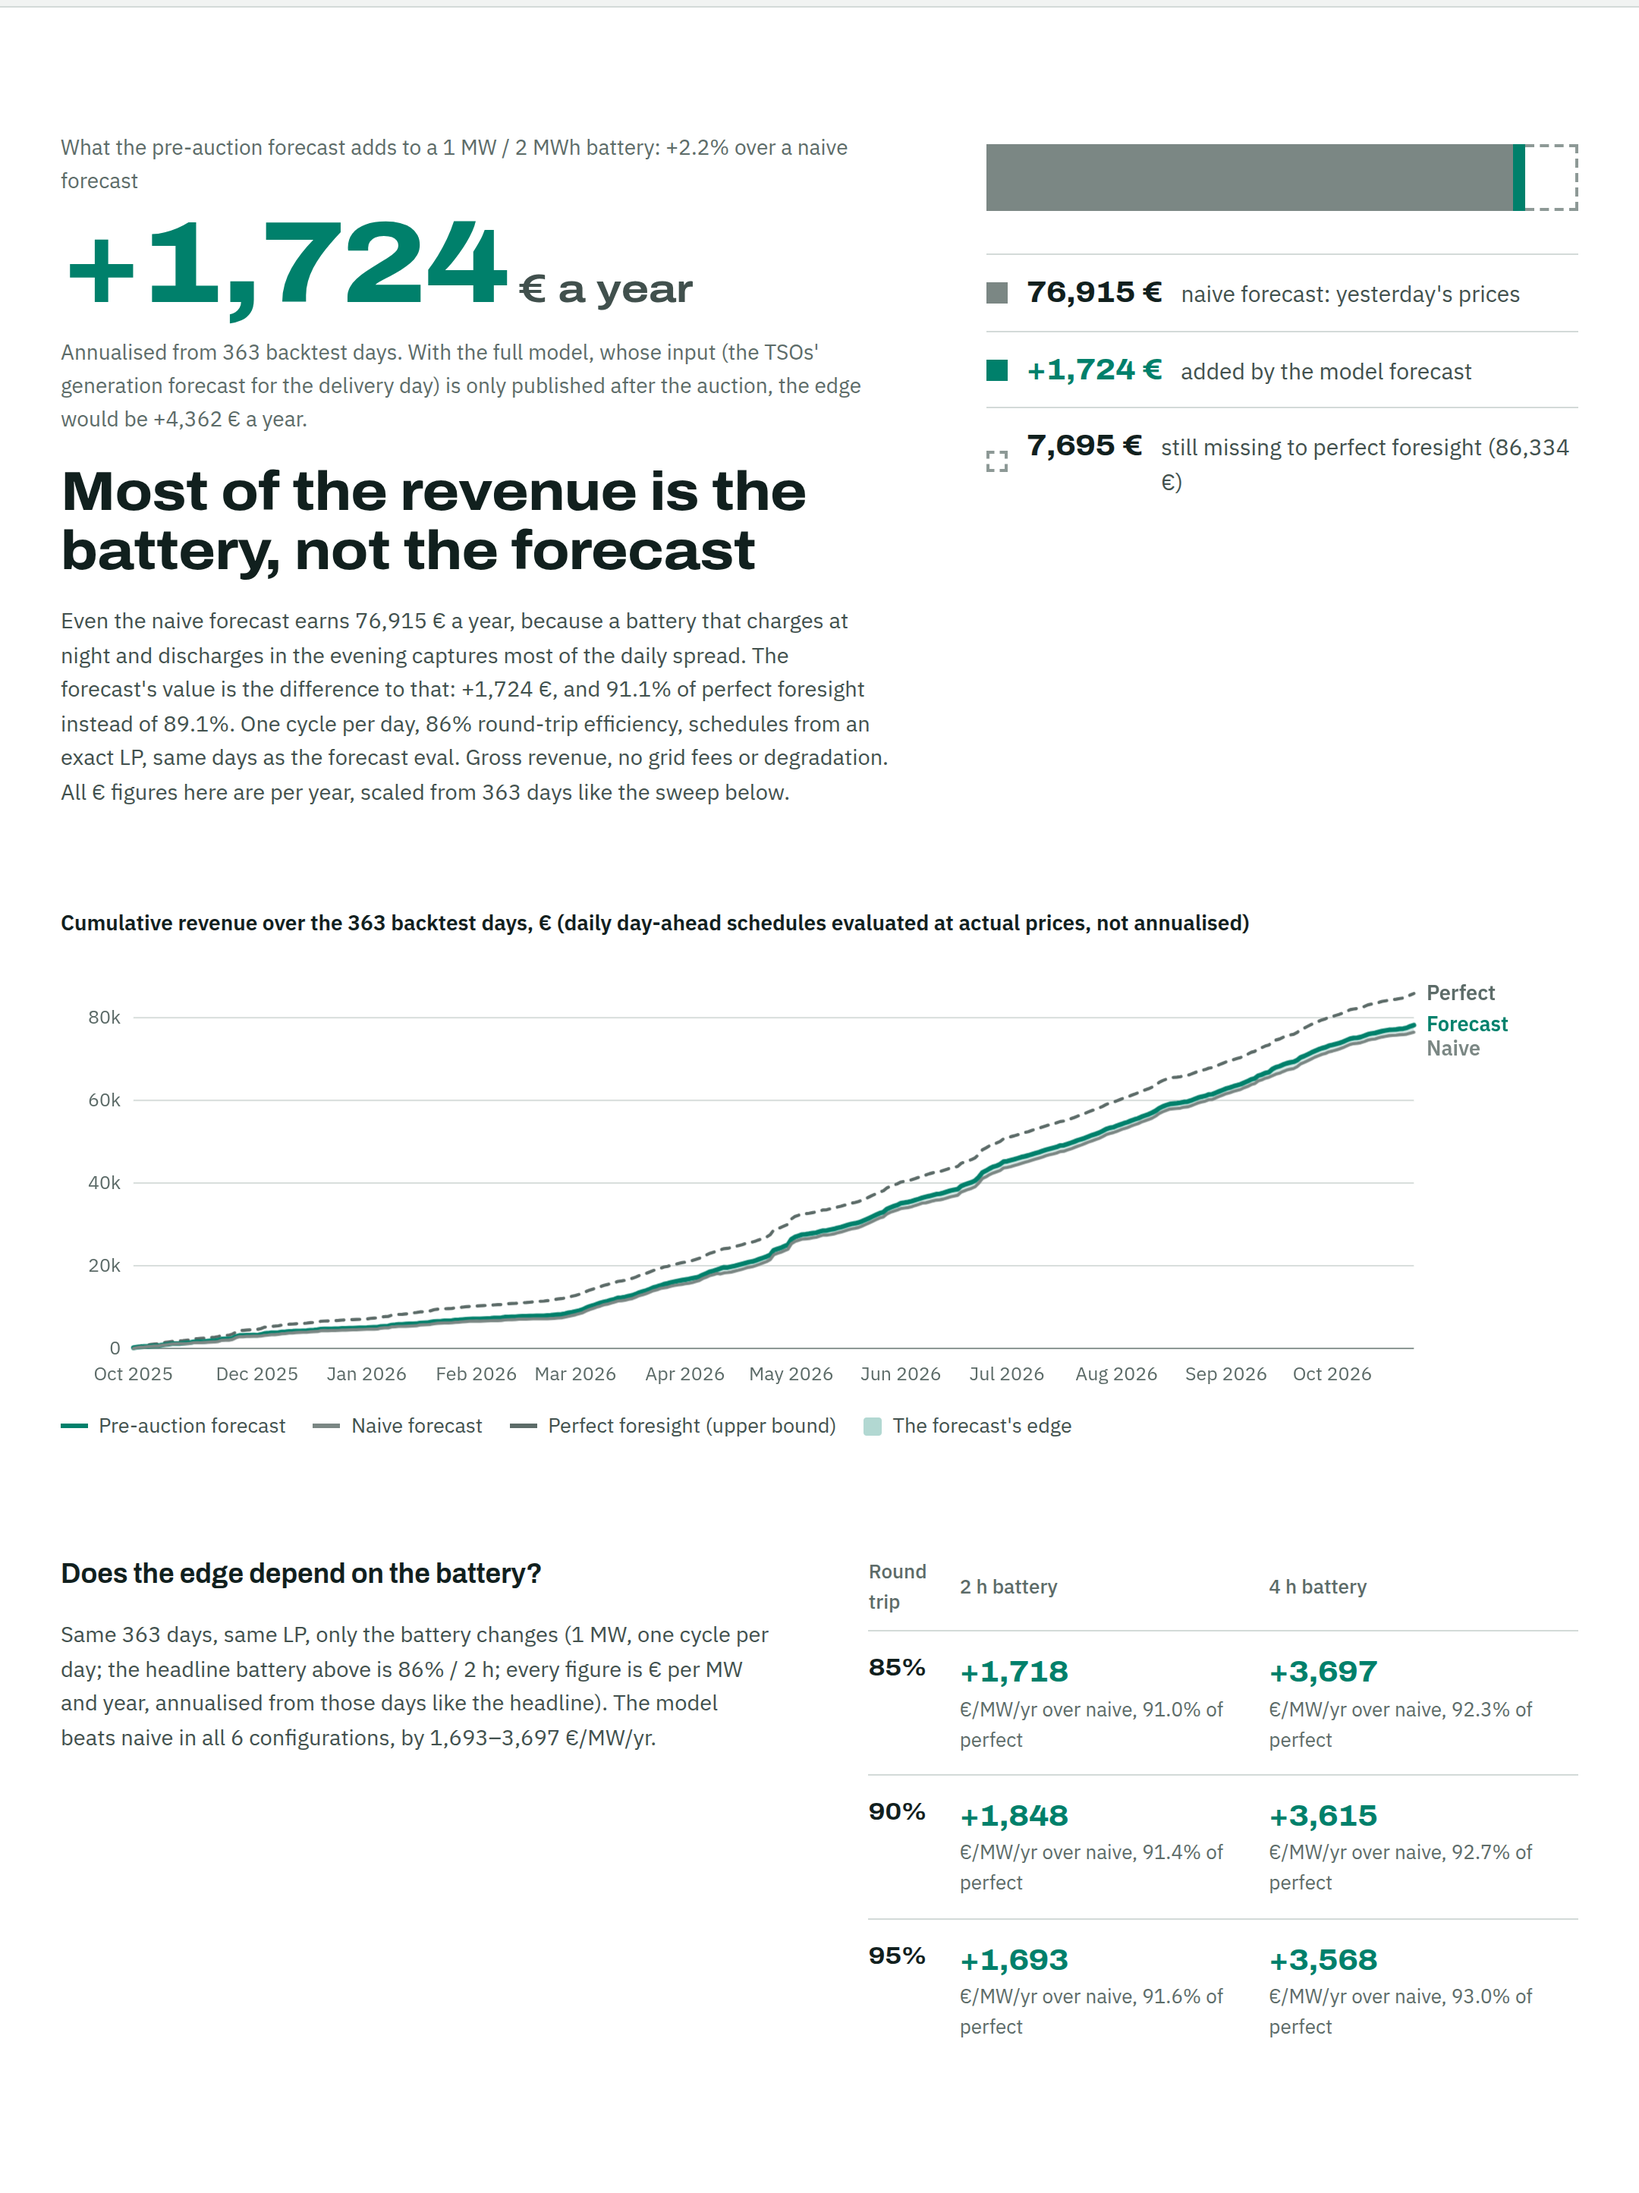
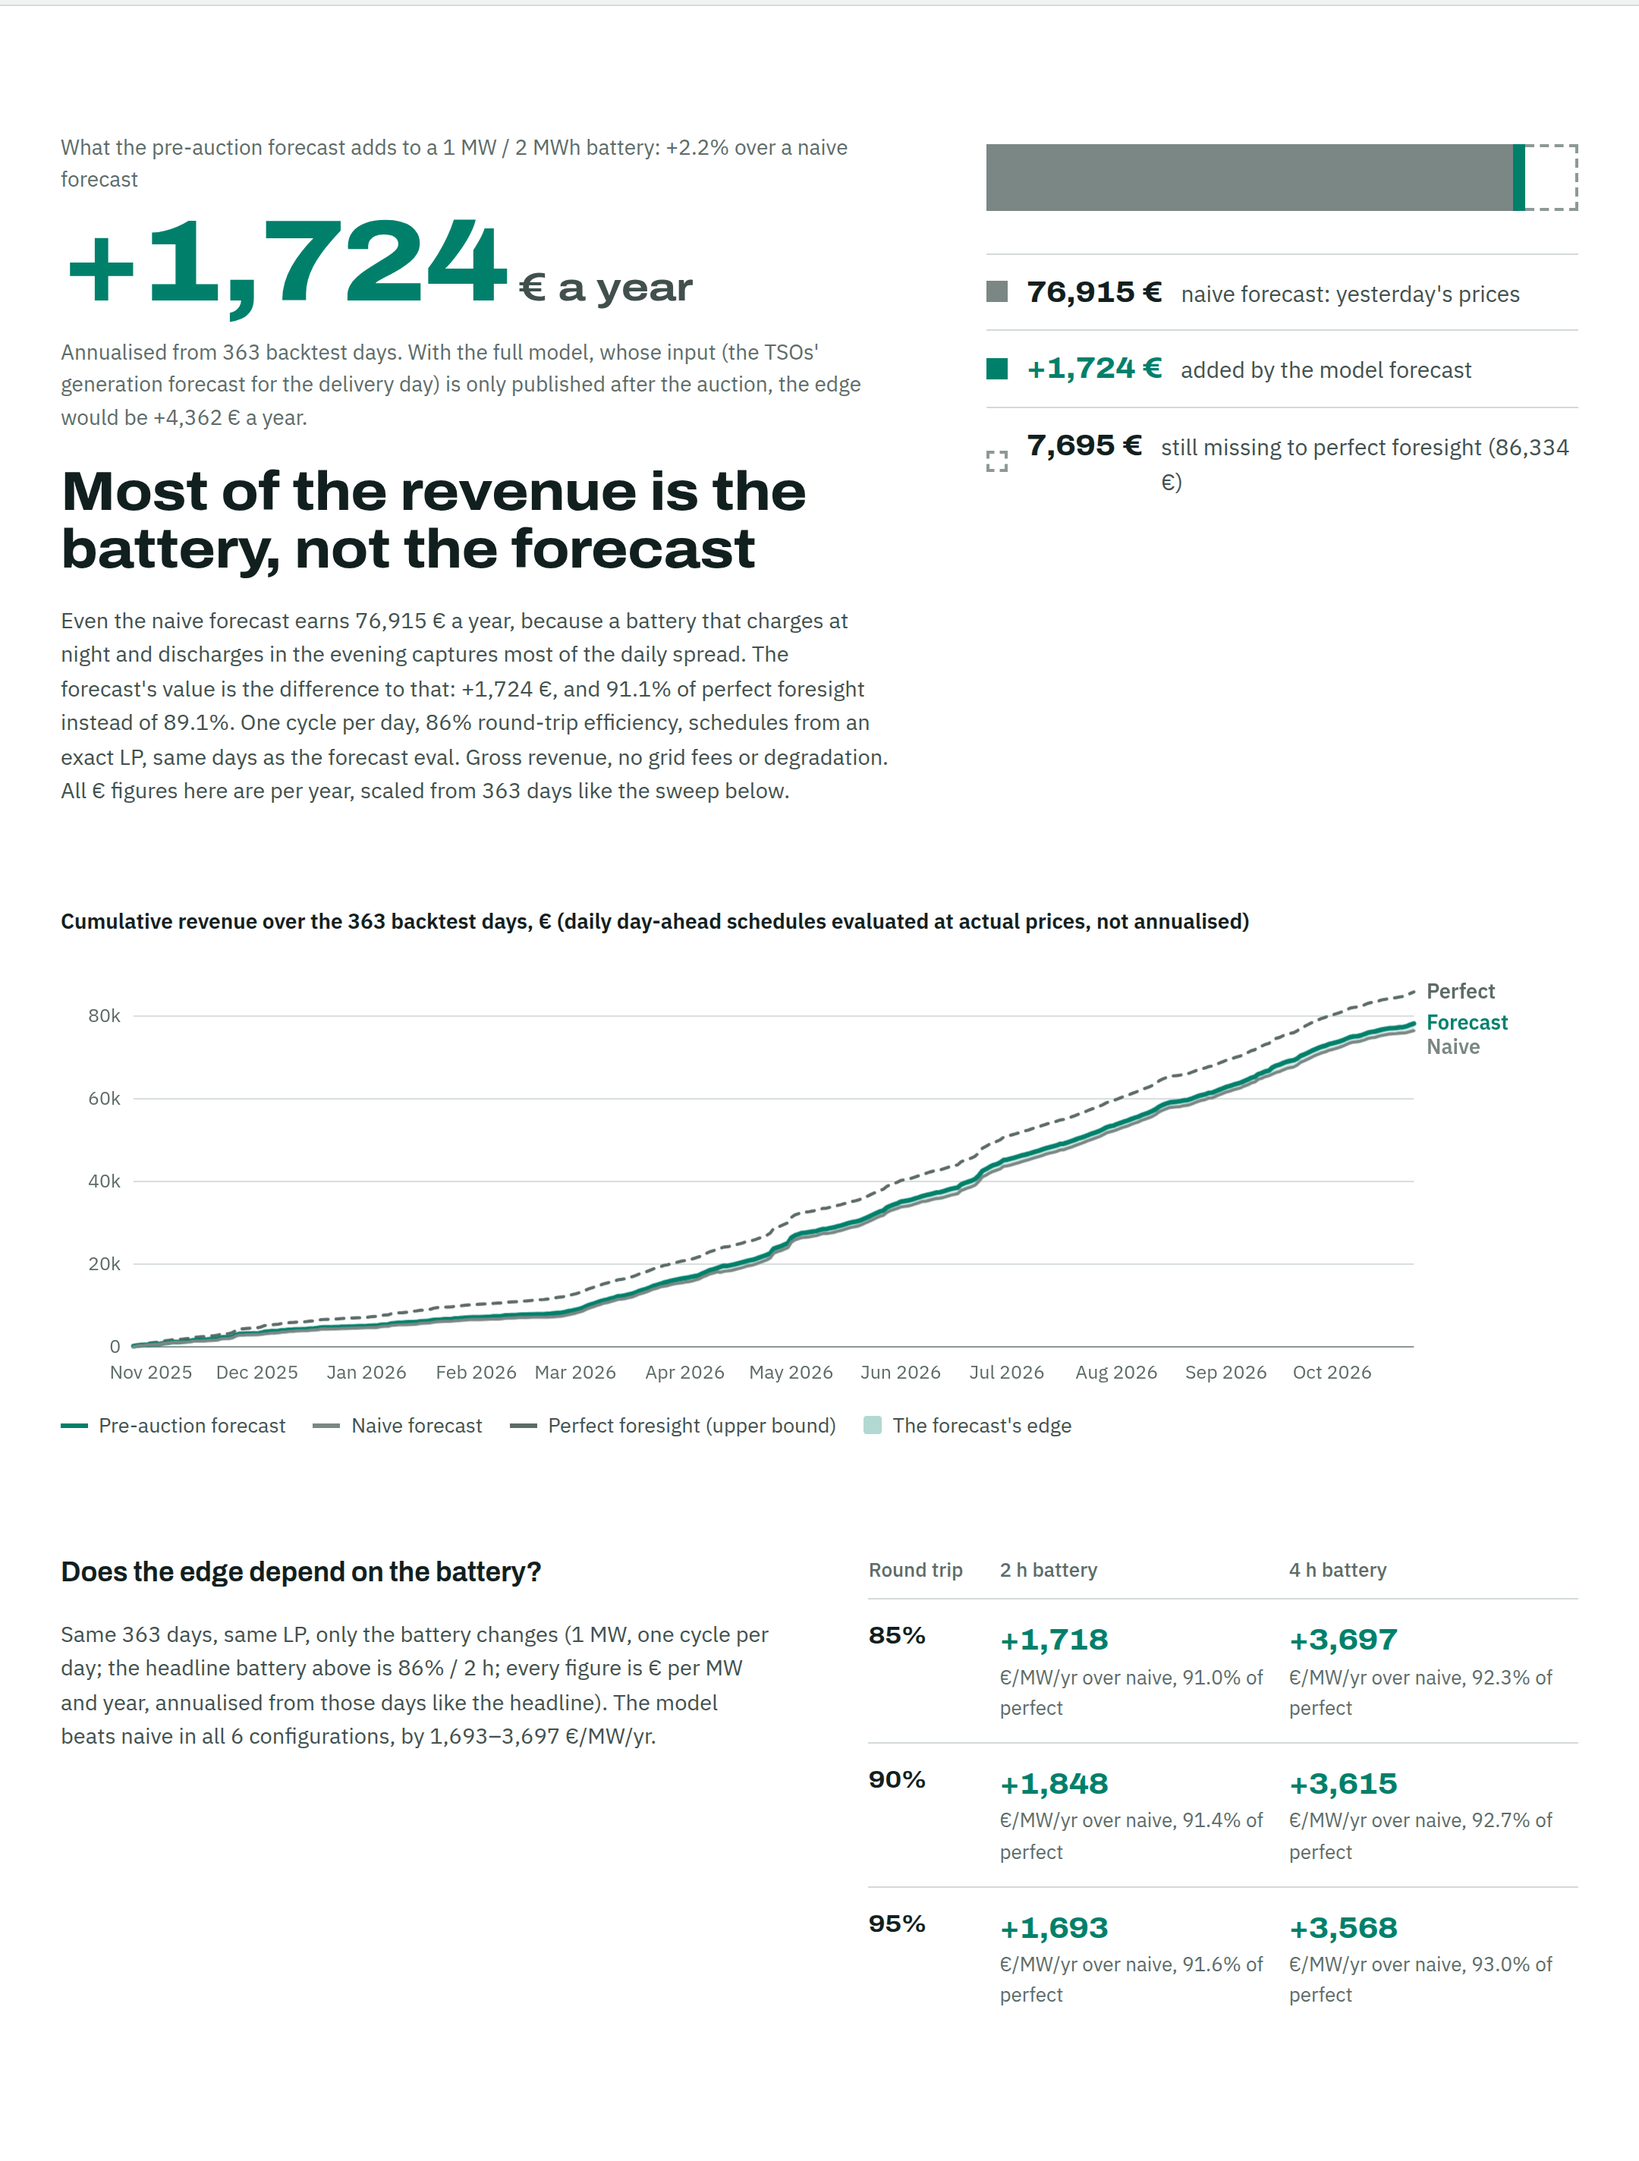
fix(site): hero window needs forecast days in an unbroken run, verbatim transcripts, regular ticks, day-based ages, derived day count

diff --git a/site/src/lib/hero.ts b/site/src/lib/hero.ts
@@ -44,10 +44,18 @@ export function negativeSpans(values: (number | null)[]): [number, number][] {
   return spans;
 }
 
+function isNextDay(a: string, b: string): boolean {
+  return Date.parse(`${b}T00:00:00Z`) - Date.parse(`${a}T00:00:00Z`) === 86_400_000;
+}
+
 /** The last `maxDays` complete delivery days (Europe/Berlin calendar days, so a
  *  23- or 25-hour DST day counts as one) of the backtest series. A day is
- *  complete when it has at least 23 hourly points. Returns null when no day
- *  qualifies, so the caller can show an honest empty state. */
+ *  complete when it has at least 23 hourly points AND at least 23 of them carry
+ *  a forecast: a day with prices but no forecast (the pre-auction model has none
+ *  where an input series has a hole) would otherwise be drawn as a stub and make
+ *  "these 3 days" cover two. Returns null when no day qualifies, so the caller
+ *  can show an honest empty state. The days are consecutive: a run broken by an
+ *  incomplete day stops there. */
 export function pickHeroWindow(recent: RecentSeries, maxDays = 3): HeroWindow | null {
   const byDay = new Map<string, number[]>();
   recent.timestamps.forEach((ts, i) => {
@@ -56,7 +64,16 @@ export function pickHeroWindow(recent: RecentSeries, maxDays = 3): HeroWindow | 
     list.push(i);
     byDay.set(date, list);
   });
-  const complete = [...byDay.entries()].filter(([, idx]) => idx.length >= 23).slice(-maxDays);
+  const ok = [...byDay.entries()].filter(
+    ([, idx]) => idx.length >= 23 && idx.filter((i) => recent.predicted[i] != null).length >= 23,
+  );
+  // Only the latest unbroken run of days: glueing 22 Oct next to 26 Oct would read as
+  // one continuous curve on a shared hourly axis.
+  const complete: typeof ok = [];
+  for (let k = ok.length - 1; k >= 0 && complete.length < maxDays; k--) {
+    if (complete.length && !isNextDay(ok[k][0], complete[0][0])) break;
+    complete.unshift(ok[k]);
+  }
   if (!complete.length) return null;
 
   const indices = complete.flatMap(([, idx]) => idx);

diff --git a/site/src/sections/Agent.tsx b/site/src/sections/Agent.tsx
@@ -1,4 +1,4 @@
-import { fmtNum, prettyText } from "../lib/format";
+import { fmtNum } from "../lib/format";
 import type { AgentData } from "../types";
 import { CountUp, Reveal } from "../ui";
 import { useInView } from "../lib/motion";
@@ -82,7 +82,7 @@ export function Agent({ data }: { data: AgentData }) {
           <Reveal className="transcripts">
             <h3 style={{ marginBottom: 6 }}>Sample transcripts, including failures</h3>
             <p className="small" style={{ marginBottom: 14 }}>
-              curated one pass + one fail per question type
+              curated one pass + one fail per question type · transcripts are the agent's raw output, unedited
               {data.generated_utc
                 ? ` · recorded ${data.generated_utc.slice(0, 10)}; figures quote that day's data, not today's`
                 : ""}
@@ -92,12 +92,12 @@ export function Agent({ data }: { data: AgentData }) {
                 <summary>
                   <span className={`badge ${ex.passed ? "badge-pass" : "badge-fail"}`}>{ex.passed ? "PASS" : "FAIL"}</span>
                   <span>
-                    <span className="t-type">{typeLabel(ex.type)}</span> {prettyText(ex.question)}
+                    <span className="t-type">{typeLabel(ex.type)}</span> {ex.question}
                   </span>
                 </summary>
-                <div className="t-a">{ex.answer ? prettyText(ex.answer) : <em>(no final answer)</em>}</div>
+                <div className="t-a">{ex.answer || <em>(no final answer)</em>}</div>
                 <div className="t-meta">
-                  gold: {prettyText(ex.gold)}
+                  gold: {ex.gold}
                   {ex.tools_used.length > 0 && <> · tools: {ex.tools_used.join(", ")}</>}
                 </div>
               </details>

diff --git a/site/src/charts/scale.ts b/site/src/charts/scale.ts
@@ -108,13 +108,14 @@ export function monthTickIndices(labels: string[], innerW: number, minGapPx = 60
   if (n === 0) return [];
   let starts = labels.map((l, i) => (i === 0 || l !== labels[i - 1] ? i : -1)).filter((i) => i >= 0);
   const px = (i: number) => (n <= 1 ? 0 : (i / (n - 1)) * innerW);
-  // a series that begins late in a month: that short first month would crowd the next label
+  // a series that begins late in a month: its short first month would crowd the next label,
+  // and the later month is the one whose first day really is on the axis
   if (
     starts.length > 2 &&
     starts[1] - starts[0] < 0.8 * (starts[2] - starts[1]) &&
     px(starts[1]) - px(starts[0]) < minGapPx
   )
-    starts = [starts[0], ...starts.slice(2)];
+    starts = starts.slice(1);
   // then thin evenly (every second, third ... month) until every gap fits; never greedily,
   // so the spacing stays regular
   const fits = (idx: number[]) => idx.every((v, k) => k === 0 || px(v) - px(idx[k - 1]) >= minGapPx);

diff --git a/site/src/lib/hero.test.ts b/site/src/lib/hero.test.ts
@@ -52,6 +52,17 @@ describe("pickHeroWindow", () => {
     expect(w.days[0].to - w.days[0].from).toBe(25);
   });
 
+  it("keeps only the latest unbroken run when a day has prices but no forecast", () => {
+    const s = series("2026-10-23T22:00:00Z", 24 * 4 + 1);
+    // 25 Oct (hours 24 to 48 of the series, 25 h) has no forecast at all
+    const predicted = s.predicted.map((v, i) => (i >= 24 && i < 49 ? null : v));
+    const w = pickHeroWindow({ ...s, predicted }, 3)!;
+    // 24 Oct is complete but not adjacent to 26 Oct: it is not glued onto the axis
+    expect(w.days.map((d) => d.date)).toEqual(["2026-10-26", "2026-10-27"]);
+    expect(w.stats.nHours).toBe(w.timestamps.length);
+    expect(w.predicted.every((v) => v != null)).toBe(true);
+  });
+
   it("returns null when no day is complete", () => {
     expect(pickHeroWindow(series("2026-10-20T10:00:00Z", 10))).toBeNull();
   });

diff --git a/site/src/charts/scale.test.ts b/site/src/charts/scale.test.ts
@@ -106,9 +106,9 @@ describe("monthTickIndices", () => {
     const labels = days([["Nov", 30], ["Dec", 31], ["Jan", 31]]);
     expect(monthTickIndices(labels, 920)).toEqual([0, 30, 61]);
   });
-  it("skips a month that starts right after the series does", () => {
+  it("drops a short first month rather than the month that follows it", () => {
     const labels = days([["Oct", 5], ["Nov", 30], ["Dec", 31]]);
-    expect(monthTickIndices(labels, 600)).toEqual([0, 35]);
+    expect(monthTickIndices(labels, 600)).toEqual([5, 35]);
   });
   it("thins evenly when the width cannot hold every month", () => {
     const labels = days(Array.from({ length: 12 }, (_, i) => [`M${i}`, 30] as [string, number]));

diff --git a/site/src/sections/Health.tsx b/site/src/sections/Health.tsx
@@ -35,7 +35,8 @@ function healthAge(s: HealthEntry, sinceExportHours: number): string {
   if (s.age_hours == null) return "–";
   const age = s.age_hours + sinceExportHours;
   if (age < 0) return `reaches +${Math.round(-age)} h`;
-  return `${fmtNum(age, 1)} h`;
+  // beyond two days an hour count stops being readable: "10 d", not "243.7 h"
+  return age >= 48 ? `${Math.floor(age / 24)} d` : `${fmtNum(age, 1)} h`;
 }
 
 export function Health({ health, uptime }: { health: Loadable<HealthData>; uptime: Loadable<UptimeData> }) {

diff --git a/site/src/App.test.tsx b/site/src/App.test.tsx
@@ -704,7 +704,7 @@ describe("freshness keeps ageing after the export", () => {
       const rows = Array.from(container.querySelectorAll(".health-item")) as HTMLElement[];
       const price = rows.find((r) => within(r).queryByText("price_day_ahead"))!;
       expect(price.querySelector(".dot")!.getAttribute("style")).toContain("--critical");
-      expect(within(price).getByText(/^2\d\d\.\d h$/)).toBeTruthy();
+      expect(within(price).getByText("10 d")).toBeTruthy();
     } finally {
       vi.useRealTimers();
     }

diff --git a/site/src/sections/Hero.tsx b/site/src/sections/Hero.tsx
@@ -126,7 +126,7 @@ export function Hero({
             <p className="lede">
               A LightGBM forecast
               {ready && nHours
-                ? `, validated walk-forward over ${ready.eval.eval_period.n_days} days (${fmtNum(nHours)} out-of-sample hours)`
+                ? `, validated walk-forward over ${fmtNum(Math.round(nHours / 24))} days (${fmtNum(nHours)} out-of-sample hours)`
                 : ""}
               , against naive and linear baselines.{" "}
               {recording

diff --git a/site/src/theme.css b/site/src/theme.css
@@ -842,7 +842,11 @@ table.data-table td.neg {
   font-size: 13px;
   color: var(--ink-muted);
   text-align: left;
-  padding: 0 0 8px;
+  padding: 0 14px 8px 0;
+}
+.matrix thead th:first-child {
+  white-space: nowrap;
+  padding-right: 24px;
 }
 .matrix td,
 .matrix tbody th {
